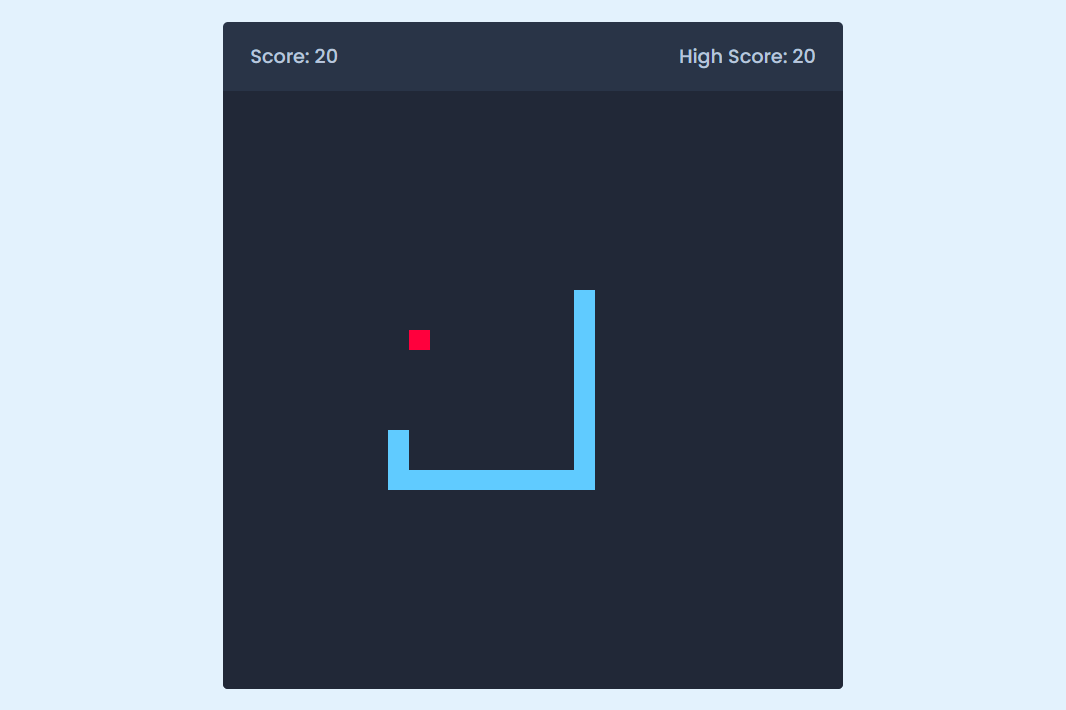
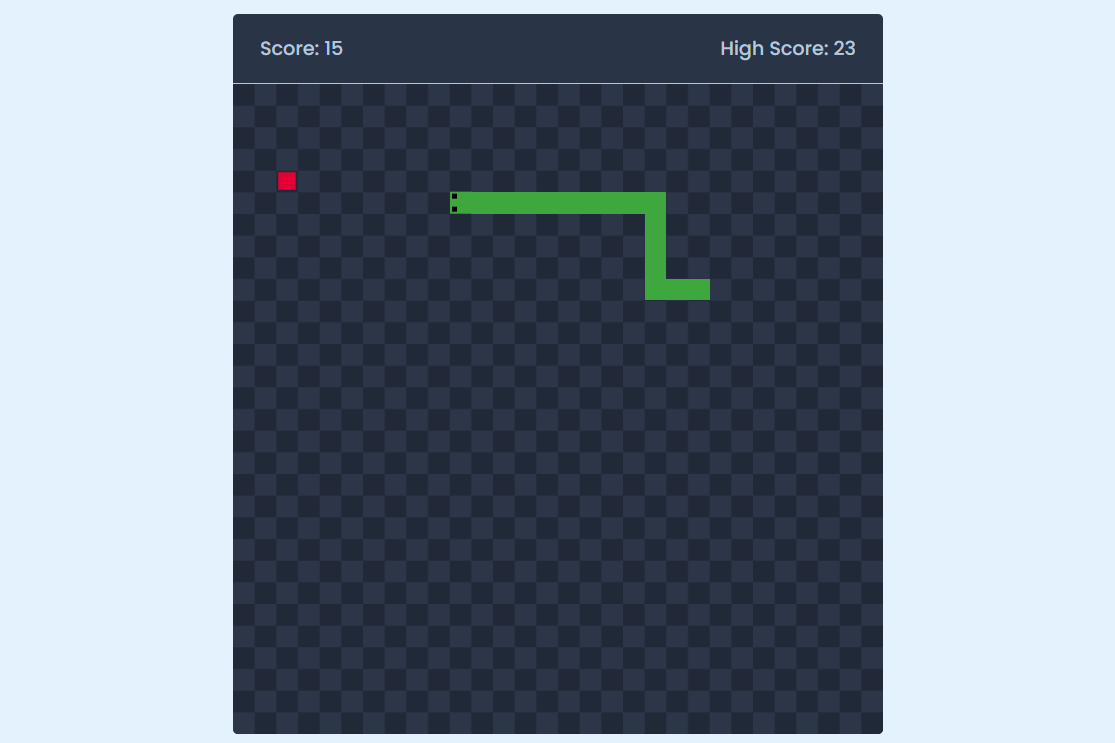
snake update

diff --git a/Lib/Snake/script.js b/Lib/Snake/script.js
@@ -1,8 +1,9 @@
-const playBoard = document.querySelector(".play-board");
+const snake = document.querySelector(".play-board.snake");
+const food = document.querySelector(".play-board.food");
 const scoreElement = document.querySelector(".score");
 const highScoreElement = document.querySelector(".high-score");
 const modal = document.querySelector(".modal");
-const btn = document.querySelector(".newGame");
+const newGame = document.querySelector(".newGame");
 
 let foodX;
 let foodY;
@@ -21,6 +22,7 @@ highScoreElement.innerText = `High Score: ${highScore}`;
 const changeFoodPosition = () => {
     foodX = Math.floor(Math.random() * 30) + 1;
     foodY = Math.floor(Math.random() * 30) + 1;
+    food.innerHTML = `<div class="food" style="grid-area: ${foodY} / ${foodX}"></div>`;
 };
 
 const handleGameOver = () => {
@@ -42,12 +44,22 @@ const changeDirection = (e) => {
         velocityX = 1;
         velocityY = 0;
     }
+
+    // if (velocityX === 0 && velocityY === -1) {
+    //     position = "up"
+    // } else if (velocityX === 0 && velocityY === 1) {
+    //     position = "down"
+    // } else if (velocityX === -1 && velocityY === 0) {
+    //     position = "left"
+    // } else if (velocityX === 1 && velocityY === 0) {
+    //     position = "right"
+    // }
 };
 
 const initGame = () => {
-    if (gameOver) return handleGameOver();
+    let htmlMarkup = ``;
 
-    let htmlMarkup = `<div class="food" style="grid-area: ${foodY} / ${foodX}"></div>`;
+    if (gameOver) return handleGameOver();
 
     if (snakeX === foodX && snakeY === foodY) {
         changeFoodPosition();
@@ -72,7 +84,6 @@ const initGame = () => {
     if (snakeX <= 0 || snakeX > 30 || snakeY <= 0 || snakeY > 30) {
         gameOver = true;
     }
-
     for (let i = 0; i < snakeBody.length; i++) {
         htmlMarkup += `<div class="head" style="grid-area: ${snakeBody[i][1]} / ${snakeBody[i][0]}"></div>`;
         if (
@@ -83,13 +94,23 @@ const initGame = () => {
             gameOver = true;
         }
     }
-    playBoard.innerHTML = htmlMarkup;
+    snake.innerHTML = htmlMarkup;
+
+    if (velocityX === 0 && velocityY === -1) {
+        document.querySelector(".head").classList = "head up";
+    } else if (velocityX === 0 && velocityY === 1) {
+        document.querySelector(".head").classList = "head down";
+    } else if (velocityX === -1 && velocityY === 0) {
+        document.querySelector(".head").classList = "head left";
+    } else if (velocityX === 1 && velocityY === 0) {
+        document.querySelector(".head").classList = "head right";
+    }
 };
 
 changeFoodPosition();
-setIntervalId = setInterval(initGame, 250);
+initGame();
+setIntervalId = setInterval(initGame, 200);
 document.addEventListener("keydown", changeDirection);
-console.log(btn);
-btn.addEventListener("click", () => {
+newGame.addEventListener("click", () => {
     location.reload();
 });

diff --git a/Lib/Snake/style.css b/Lib/Snake/style.css
@@ -33,10 +33,12 @@
 }
 
 body {
-  display: flex;
+  display: grid;
   align-items: center;
   justify-content: center;
+  align-content: center;
   min-height: 100vh;
+  overflow: hidden;
   background: #E3F2FD;
 }
 
@@ -49,13 +51,14 @@ body {
   height: 100vh;
   backdrop-filter: blur(1px);
   background: rgba(0, 0, 0, 0.534);
+  z-index: 10;
 }
 
 .modal-window {
   display: flex;
   text-align: center;
-  width: 60vmin;
-  height: 30vmin;
+  width: 400px;
+  height: 200px;
   background: #293447;
   border-radius: 5px;
   flex-direction: column;
@@ -95,8 +98,8 @@ h2 {
 }
 
 .wrapper {
-  width: 65vmin;
-  height: 70vmin;
+  width: 650px;
+  height: 720px;
   display: flex;
   flex-direction: column;
   overflow: hidden;
@@ -111,20 +114,104 @@ h2 {
   padding: 20px 27px;
   display: flex;
   justify-content: space-between;
+  border-bottom: 1px solid #B8C6DC;
 }
 
-.play-board {
+.container-board {
+  display: flex;
+  width: 100%;
+  height: 100%;
+  background: url(./Board.png);
+  background-size: cover;
+  background-repeat: no-repeat;
+}
+
+.play-board.snake {
   width: 100%;
   height: 100%;
   display: grid;
   grid-template: repeat(30, 1fr) / repeat(30, 1fr);
-  background: #212837;
+  /* background: #212837; */
+}
+
+.play-board.food {
+  position: absolute;
+  width: 650px;
+  height: 650px;
+  display: grid;
+  grid-template: repeat(30, 1fr) / repeat(30, 1fr);
+  background: transparent;
 }
 
 .play-board .food {
-  background: #FF003D;
+  background: #e40035;
+  animation: animate 1s linear infinite;
+}
+
+@keyframes animate {
+  0%, 100% {
+    transform: scale(1);
+  }
+  50% {
+    transform: scale(0.7);
+  }
 }
 
 .play-board .head {
-  background: #60CBFF;
+  display: flex;
+  justify-content: space-between;
+  background: #3ea73e;
 }
+
+.play-board .head:first-child::after {
+  content: "";
+  display: block;
+  margin: 2px;
+  width: 5px;
+  height: 5px;
+  background: #000;
+}
+
+.play-board .head:first-child::before {
+  content: "";
+  display: block;
+  margin: 2px;
+  width: 5px;
+  height: 5px;
+  background: #000;
+}
+
+.down {
+  transform: rotate(180deg);
+}
+.right {
+  transform: rotate(90deg);
+}
+.left {
+  transform: rotate(270deg);
+}
+
+
+@media only screen and (max-width: 650px) {
+  .wrapper {
+    transform: scale(0.7);
+  }
+  .modal-window {
+    transform: scale(0.7);
+  }
+}
+
+@media only screen and (max-height: 720px) {
+  .wrapper {
+    transform: scale(0.7);
+  }
+  .modal-window {
+    transform: scale(0.7);
+  }
+}
+
+/* @media only screen and (max-width: 650px) and (max-height: 650px) {
+  .wrapper {
+    transform: scale(0.8);
+  }
+} */

diff --git a/Lib/Snake/index.html b/Lib/Snake/index.html
@@ -24,7 +24,10 @@
           <span class="score">Score: 0</span>
           <span class="high-score"></span>
         </div>
-        <div class="play-board"></div>
+        <div class="container-board">
+          <div class="play-board snake"></div>
+          <div class="play-board food"></div>
+        </div>
         <div class="controls"></div>
       </div>
     <script src="script.js"></script>
